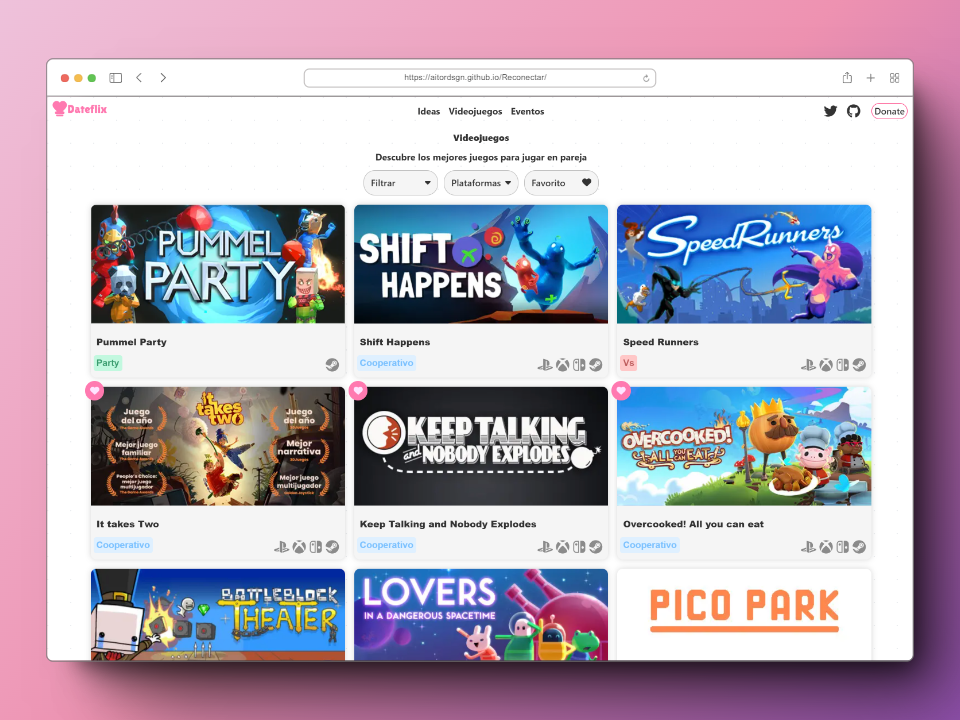
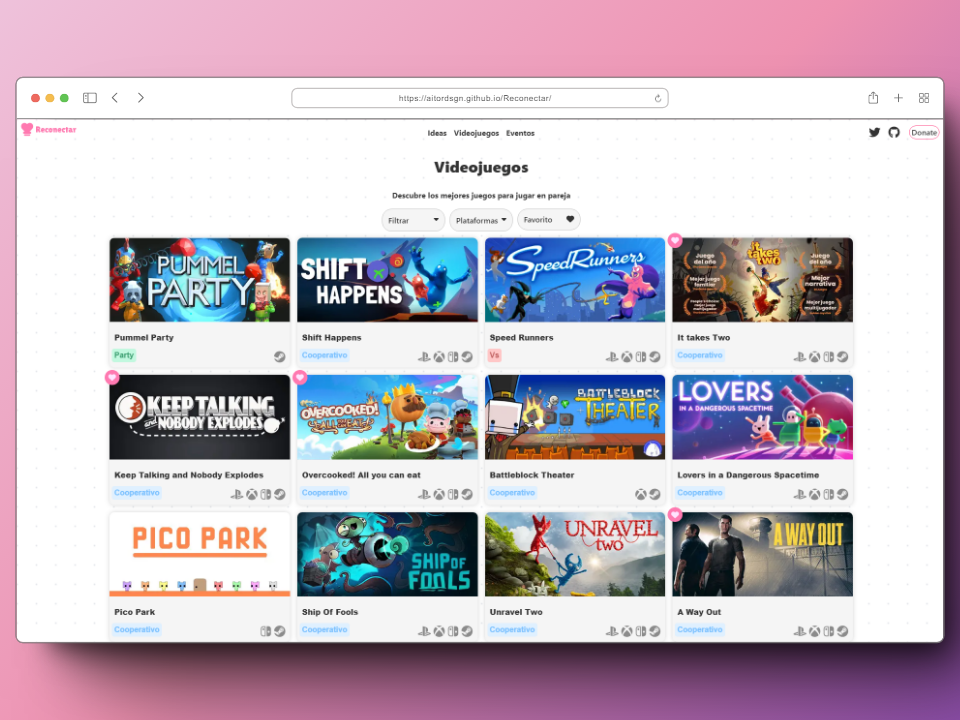
a

diff --git a/src/index.css b/src/index.css
@@ -35,7 +35,7 @@ img, video, svg {
 body {
     width: 100%; 
     background-color: #ffffff; 
-    background: radial-gradient(#e5e7eb 1px,transparent 1px);
+    background: radial-gradient(#e5e7eb 5px,transparent 5px);
     padding: 0px;
     display: flex;
     flex-direction: column;
@@ -51,7 +51,7 @@ p {
 }
 .gameGrid {
     display: grid;
-    gap: 32px;
+    gap: 15px;
     grid-template-columns: 
     repeat(
         auto-fit,
@@ -250,7 +250,7 @@ p {
     height: 100%; 
     z-index: -100;
     background-color: #ffffff; 
-    background-image: radial-gradient(#e5e7eb 1px, transparent 0);
+    background-image: radial-gradient(#e5e7eb 1px, transparent 2.5px);
     background-size: 40px 40px;
     background-position: -19px -19px;
     }

diff --git a/src/GameList.jsx b/src/GameList.jsx
@@ -1,4 +1,4 @@
-import React, { useEffect, useState } from "react";
+import { useEffect, useState } from "react";
 import { FontAwesomeIcon } from '@fortawesome/react-fontawesome';
 import { faCaretDown, faArrowUp, faHeart } from '@fortawesome/free-solid-svg-icons';
 import { GameCard } from './GameCard.jsx';
